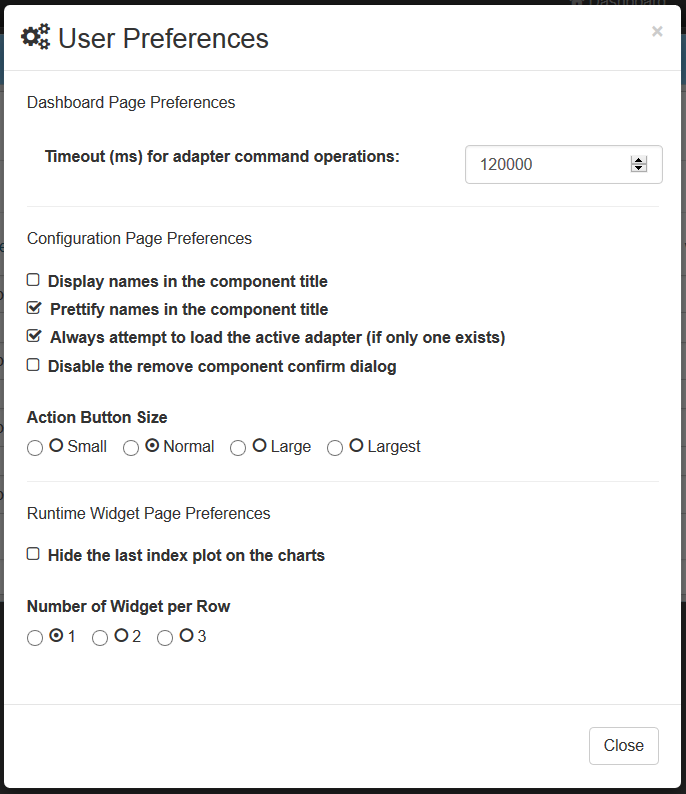
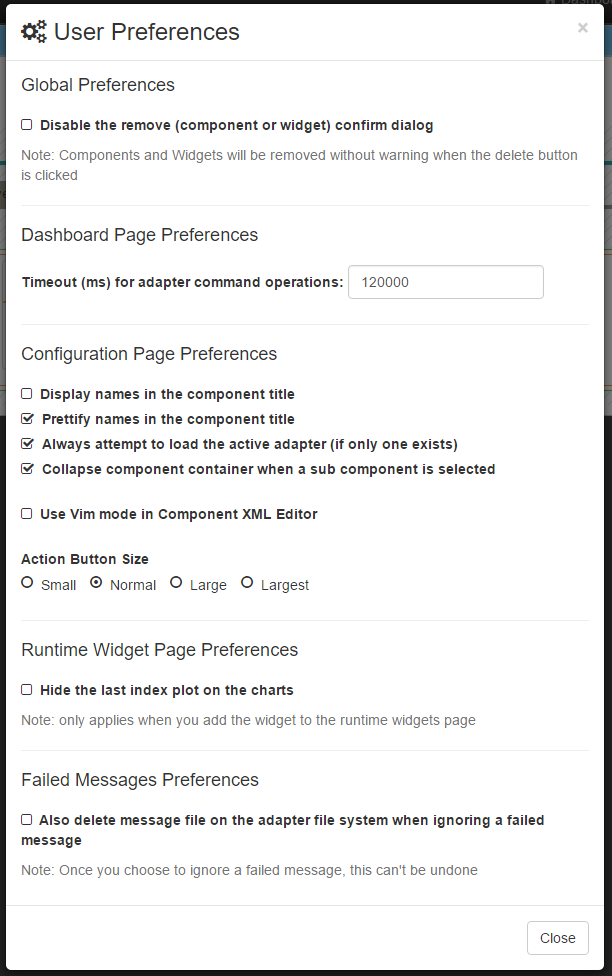
INTERLOK-1448 #time 15m #comment Update the user pref documentation page.

Changed region(s): [[0.0, 0.0, 1.0, 0.9975], [0.5899, 0.272, 0.683, 0.3023]]

diff --git a/pages/ui/ui-user-preferences.md b/pages/ui/ui-user-preferences.md
@@ -12,6 +12,9 @@ The GUI web application allows to configure some user properties to change the w
 
 The preferences are:
 
+## Global Preferences ##
+- Disable the remove component confirm dialog: Before deleting components in the config page the application will prompt the user for confirmation. The prompt can be disabled, very useful when a lot of components need to be deleted. The default value is true. (Since 3.2)
+
 ## Dashboard Page Preferences ##
  - Timeout (ms) for adapter command operations: The timeout for the adapter commands such as Start Adapter, Stop Adapter, Start Channel ... The default value is 120000 ms (2 mins).
 
@@ -19,9 +22,12 @@ The preferences are:
  - Display names in the component title: Whether to display the component name in the component title or in the body. The default value is false.
  - Prettify names in the component title: The ui can display the component type and uid nicely (remove hyphen, underscore and split camel case uid). The default value is true.
  - Always attempt to load the active adapter (if only one exists): Decides when opening the config page if the application should automatically load the running adapter config or prompt the user for choices. The default value is true. (Since 3.2)
- - Disable the remove component confirm dialog: Before deleting components in the config page the application will prompt the user for confirmation. The prompt can be disabled, very useful when a lot of components need to be deleted. The default value is true. (Since 3.2)
+ - Collapse component container when a sub component is selected: The Adapter and Channel component container will collapse automatically if a child Channel or Workflow is selected. The default value is true. (Since 3.6)
+ - Use Vim mode in Component XML Editor: Use Vim mode when editing component in the xml view. The default value is false. (Since 3.6)
  - Action Button Size: Change the display size of the icons in the config page. The default value is normal.
 
 ## Runtime Widget Page Preferences ##
  - Hide the last index plot on the charts: Whether or not charts should hide the last index. The default value is false.
- - Number of Widget per Row: The number of widget to display per row. In small screen the maximum number is 2 widgets per row and on very small screens only one widget will be displayed per row regardless which value has been selected. The default value is 1. (Since 3.2)
+ 
+## Failed Messages Preferences ##
+ - Also delete message file on the adapter file system when ignoring a failed message: When ignoring a failed message the associated message file in the file system will be deleted. The default value is false.
